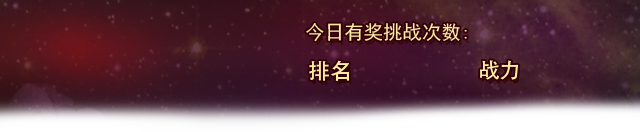
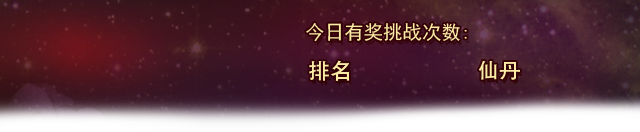
修改竞技场

Changed region(s): [[0.75, 0.4545, 0.8125, 0.6364]]

diff --git a/client/Client-v1.0.0-e2.1.5/Client-v1.0.0-e2.1.5/Resources/src/view/mainModule/tournamentLayer.js b/client/Client-v1.0.0-e2.1.5/Client-v1.0.0-e2.1.5/Resources/src/view/mainModule/tournamentLayer.js
@@ -72,7 +72,7 @@ var TournamentLayer = cc.Layer.extend({
         this.addChild(lvBg);
         lvBg.setScale(0.8);
 
-        this._lvLabel = cc.LabelTTF.create(0, "STHeitiTC-Medium", 38);
+        this._lvLabel = cc.LabelTTF.create(0, "STHeitiTC-Medium", 36);
         this._lvLabel.setColor(cc.c3b(255, 239, 131));
         this._lvLabel.setPosition(cc.p(87, 993));
         this.addChild(this._lvLabel);
@@ -84,12 +84,12 @@ var TournamentLayer = cc.Layer.extend({
 
         this._rankingLabel = cc.LabelTTF.create(0, "STHeitiTC-Medium", 22);
         this._rankingLabel.setColor(cc.c3b(255, 239, 131));
-        this._rankingLabel.setPosition(cc.p(430, 975));
+        this._rankingLabel.setPosition(cc.p(430, 973));
         this.addChild(this._rankingLabel);
 
         this._elixirLabel = cc.LabelTTF.create(0, "STHeitiTC-Medium", 22);
         this._elixirLabel.setColor(cc.c3b(255, 239, 131));
-        this._elixirLabel.setPosition(cc.p(605, 975));
+        this._elixirLabel.setPosition(cc.p(605, 973));
         this.addChild(this._elixirLabel);
 
         var rewardIcon = cc.Sprite.create(main_scene_image.icon35);
@@ -178,7 +178,6 @@ var TournamentLayer = cc.Layer.extend({
 
         this._expProgress.setAllValue(player.get("power"), player.get("maxPower"));
         this._lvLabel.setString(player.get("lv"));
-        this._elixirLabel.setString(player.get("elixir"));
 
         if (this._scrollView != null) {
             this._scrollView.removeFromParent();
